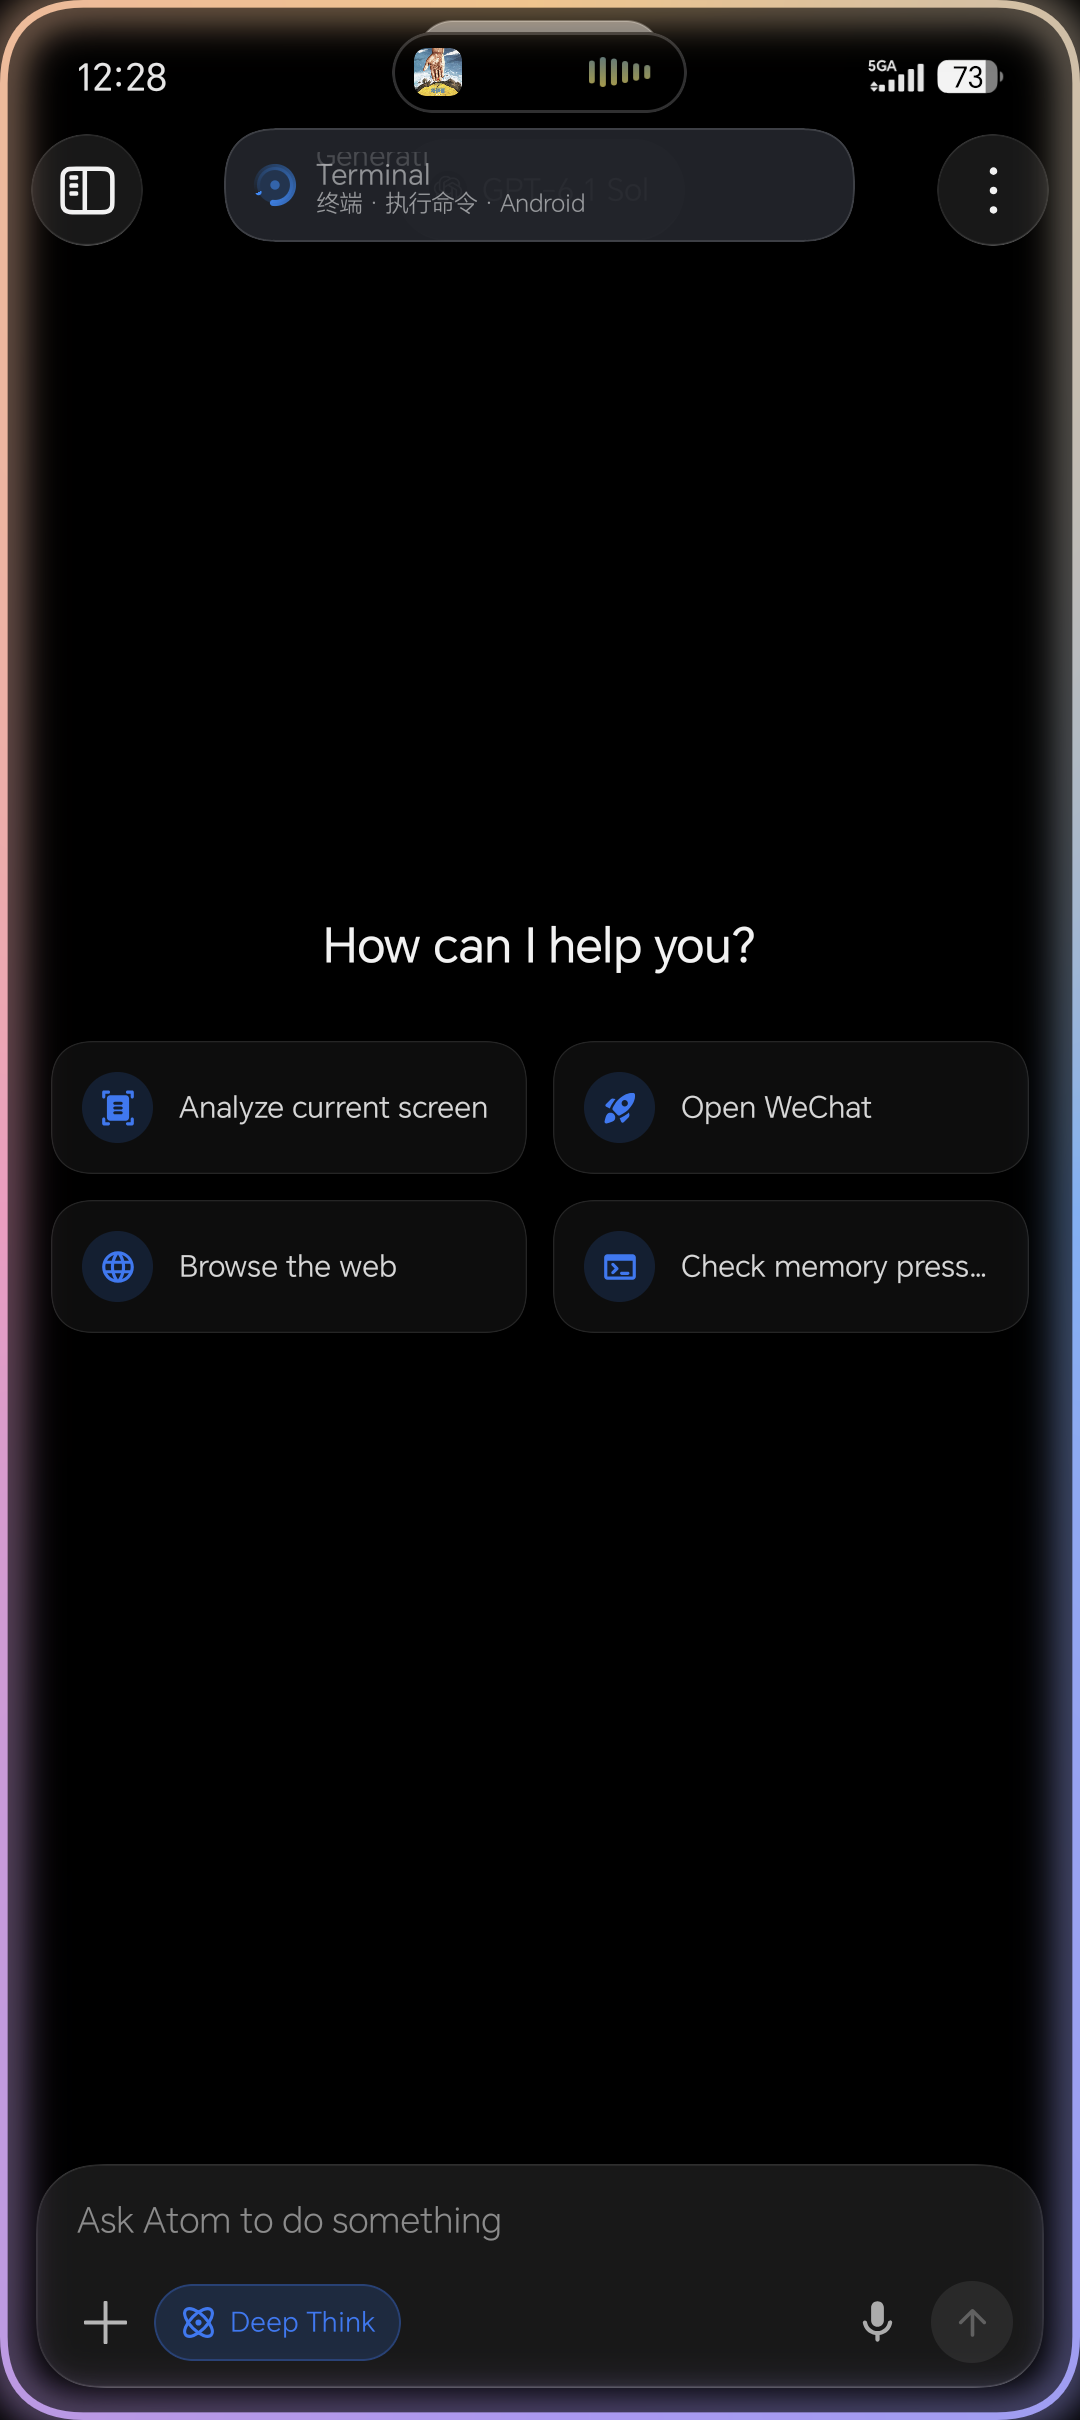
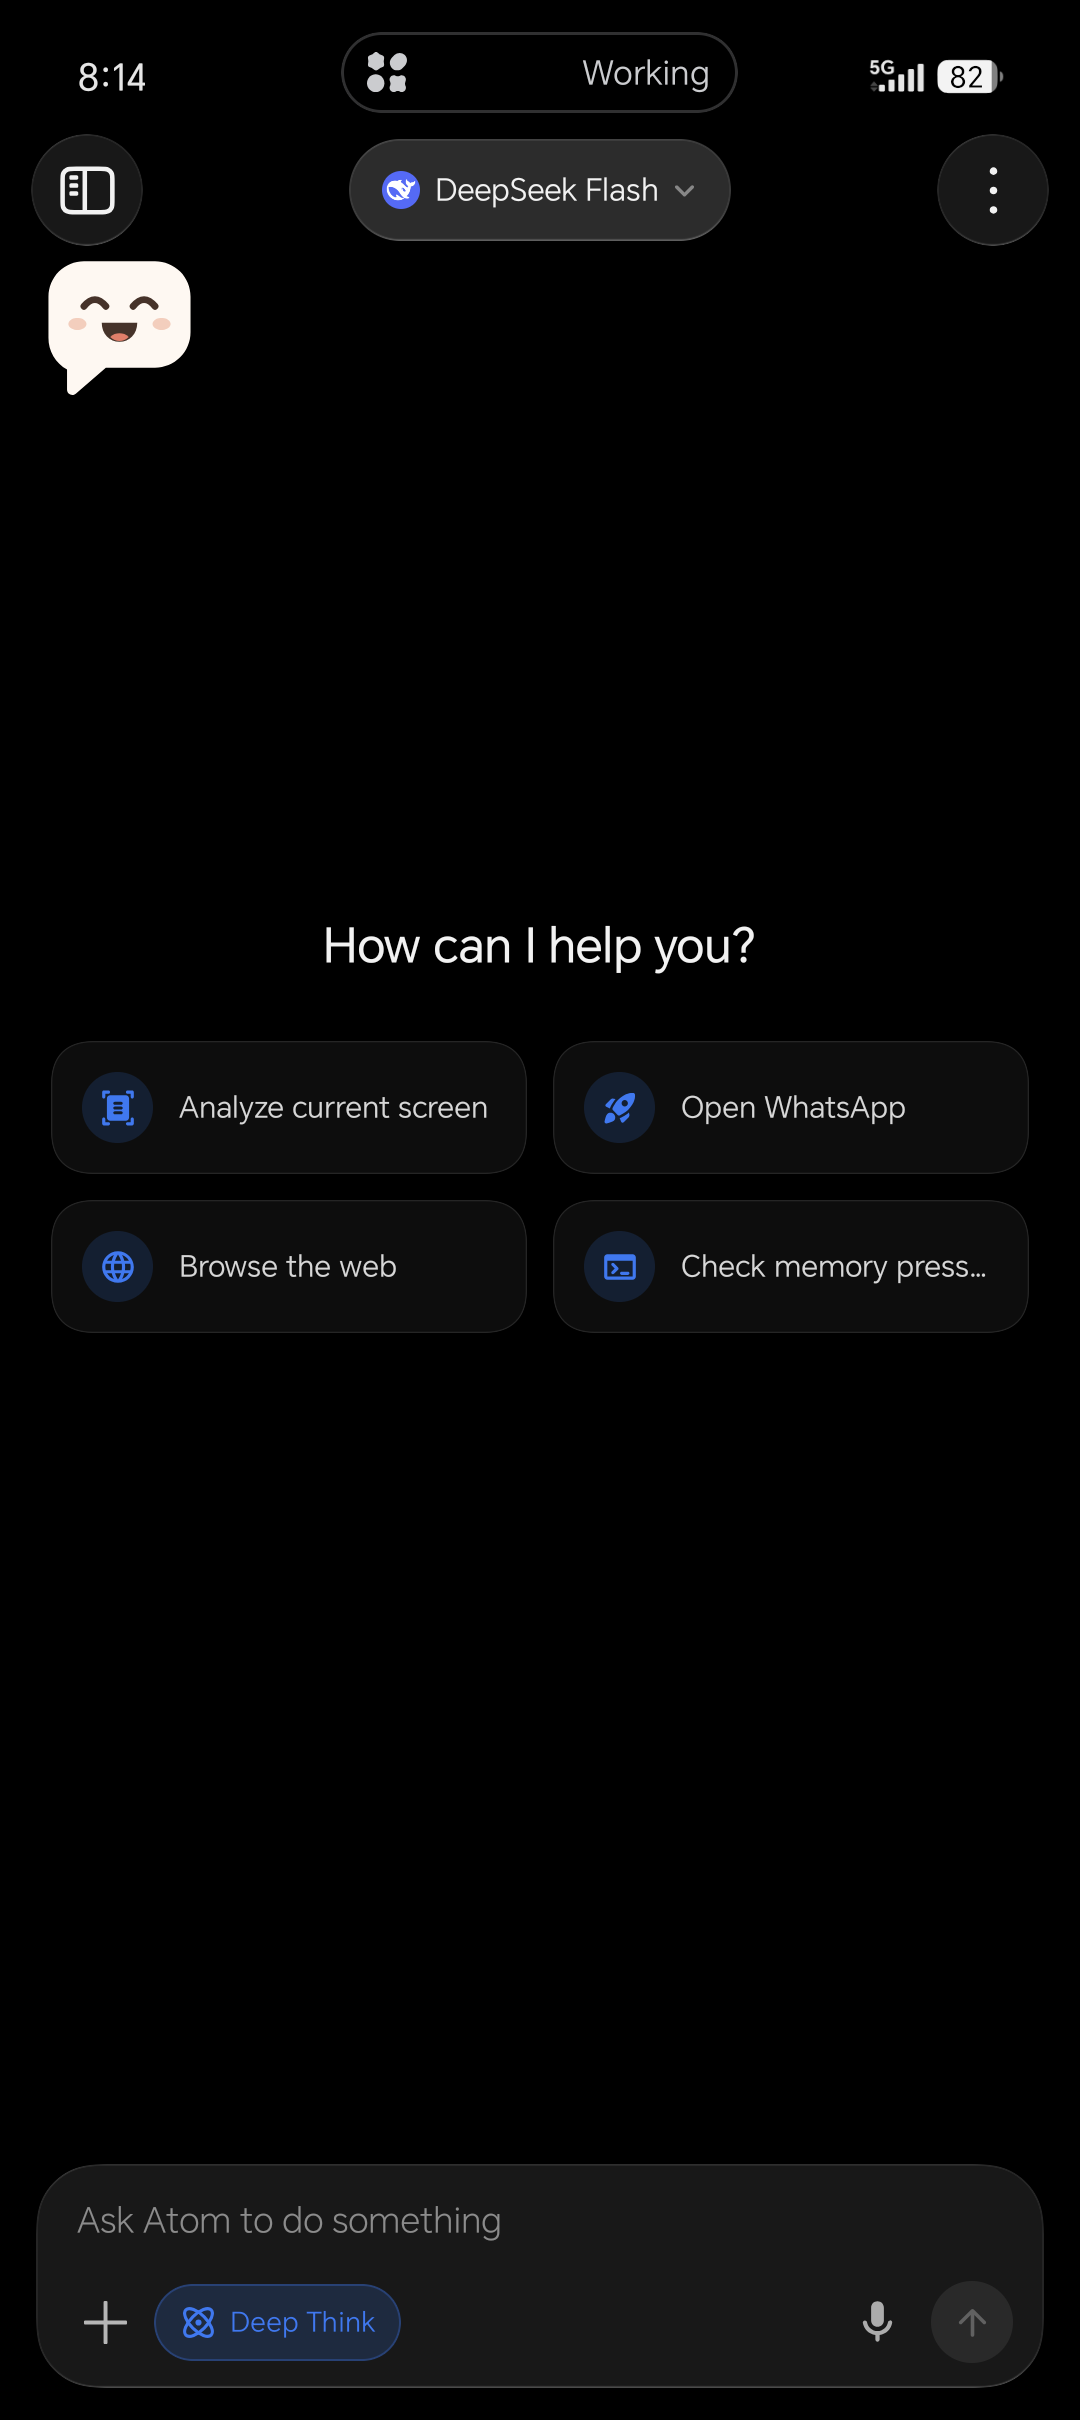
docs: real Atom screenshots from a clean tour
Replaces the stale home shot (which still showed the old Open WeChat
suggestion) with three current ones taken in Atom itself: the home screen,
the hold menu, and the mini chat. No personal conversation in any of them.

Changed region(s): [[0.0, 0.0, 1.0, 1.0], [0.7333, 0.4339, 0.825, 0.4649]]

diff --git a/README.md b/README.md
@@ -5,7 +5,11 @@
 It reads the screen, taps the button, runs the command, remembers the context,
 and keeps working while you do something else.
 
-![Atom home](docs/Screenshots/atom_home.png)
+| Atom | The bubble's hold menu | The mini chat |
+| --- | --- | --- |
+| ![Atom home](docs/Screenshots/atom_home.png) | ![The hold menu](docs/Screenshots/atom_bubble_menu.png) | ![The mini chat](docs/Screenshots/atom_panel.png) |
+
+Taken on a phone running 3.4.5, from a clean install — no personal data in them.
 
 ---
 
